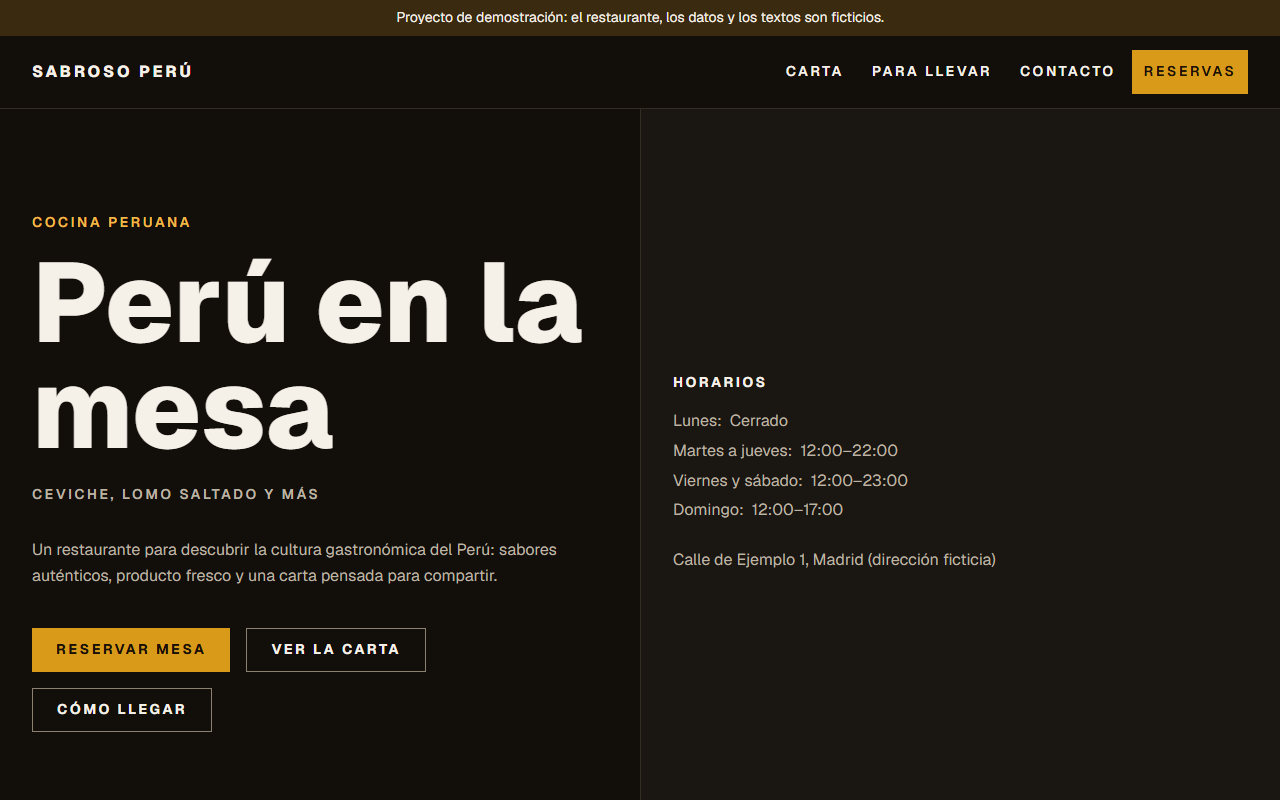
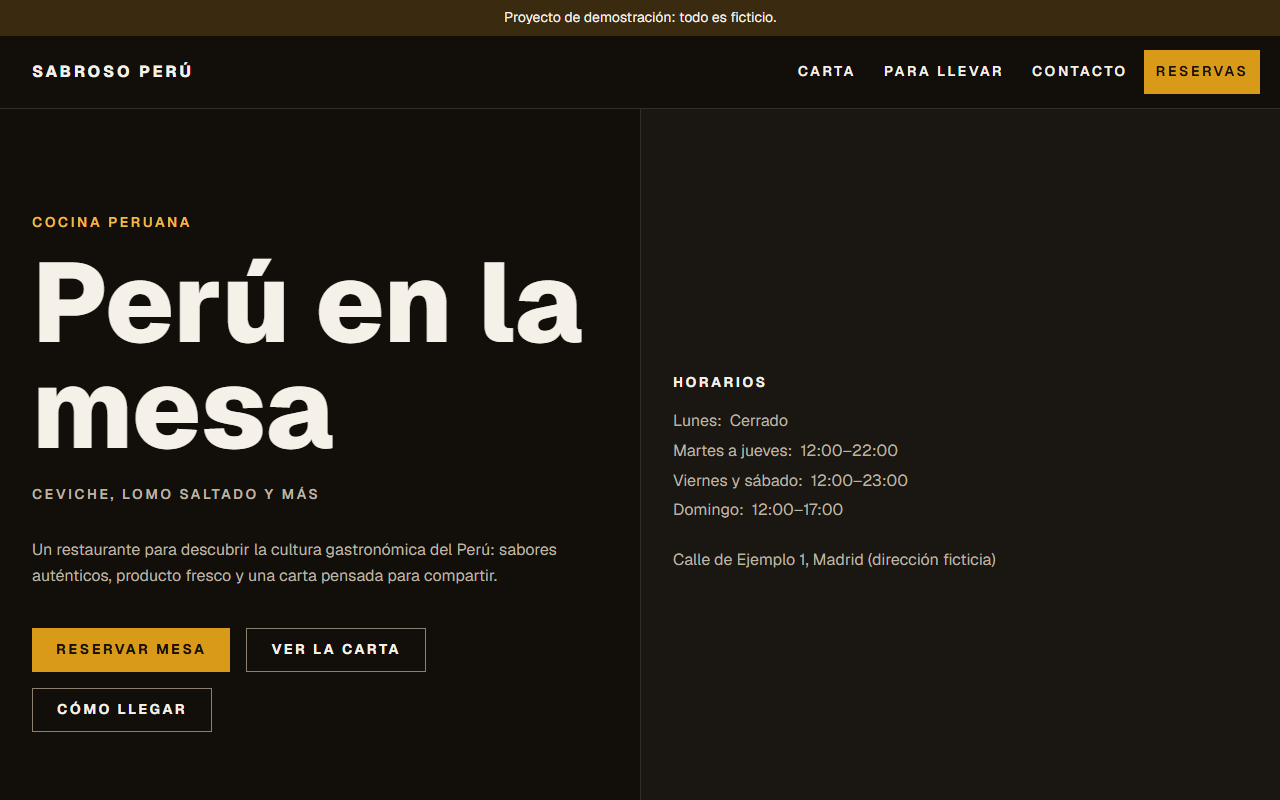
fix: cabecera responsive con menú móvil
En móvil la cabecera ocupaba ~157 px (unos 212 con la franja de demo): los
enlaces se partían en dos filas y no había menú. Ahora, por debajo de 768 px
queda en una sola fila (logo, Reservas y botón Menú) y el resto de enlaces
se abre en un panel que cierra con Esc, clic fuera o al elegir un enlace.

- Botones del hero a todo el ancho en móvil; franja de demo en una línea.
- Tests: 5 del menú, cabecera de una fila a 320 px y controles de 44x44.
- Capturas del README regeneradas, con la del menú móvil.

Los tests de T-011 solo comprobaban el scroll horizontal; se anota en su
review.

Changed region(s): [[0.625, 0.0625, 1.0, 0.125], [0.3125, 0.0, 0.6875, 0.0312]]

diff --git a/tests/inicio-navegacion.spec.ts b/tests/inicio-navegacion.spec.ts
@@ -1,6 +1,7 @@
 import { test, expect } from '@playwright/test';
 import { restaurante } from '../src/config/restaurante';
 import AxeBuilder from '@axe-core/playwright';
+import { abrirMenuSiHaceFalta } from './helpers';
 
 const TAGS = ['wcag2a', 'wcag2aa', 'wcag21a', 'wcag21aa'];
 const RUTAS = ['/', '/carta', '/para-llevar', '/reservas', '/contacto', '/aviso-legal', '/privacidad', '/accesibilidad'];
@@ -66,9 +67,11 @@ test.describe('navegacion', () => {
       await expect(cabecera).toBeVisible();
       await expect(cabecera.getByRole('link', { name: restaurante.nombre })).toHaveAttribute('href', '/');
 
-      const nav = cabecera.getByRole('navigation', { name: 'Principal' });
-      const hrefs = await nav.getByRole('link').evaluateAll((as) => as.map((a) => a.getAttribute('href') ?? ''));
-      expect(hrefs).toEqual(['/carta', '/para-llevar', '/contacto', '/reservas']);
+      await abrirMenuSiHaceFalta(page);
+      const hrefs = await cabecera
+        .getByRole('link')
+        .evaluateAll((as) => as.map((a) => a.getAttribute('href') ?? ''));
+      expect([...hrefs].sort()).toEqual(['/', '/carta', '/contacto', '/para-llevar', '/reservas']);
       for (const href of hrefs) {
         expect((await request.get(href)).status(), href).toBe(200);
       }
@@ -84,16 +87,19 @@ test.describe('navegacion', () => {
 
   test('los enlaces de la cabecera llevan a su página y marcan la actual', async ({ page }) => {
     await page.goto('/');
-    const nav = page.locator('header').getByRole('navigation', { name: 'Principal' });
-    await nav.getByRole('link', { name: 'Contacto' }).click();
+    const cabecera = page.locator('header');
+    await abrirMenuSiHaceFalta(page);
+    await cabecera.getByRole('link', { name: 'Contacto' }).click();
     await expect(page).toHaveURL(/\/contacto$/);
     await expect(page.getByRole('heading', { level: 1 })).toHaveText('Ven a vernos');
-    await expect(nav.getByRole('link', { name: 'Contacto' })).toHaveAttribute('aria-current', 'page');
-    await expect(nav.getByRole('link', { name: 'Reservas' })).not.toHaveAttribute('aria-current', 'page');
+    await abrirMenuSiHaceFalta(page);
+    await expect(cabecera.getByRole('link', { name: 'Contacto' })).toHaveAttribute('aria-current', 'page');
+    await expect(cabecera.getByRole('link', { name: 'Reservas' })).not.toHaveAttribute('aria-current', 'page');
 
-    await nav.getByRole('link', { name: 'Reservas' }).click();
+    await cabecera.getByRole('link', { name: 'Reservas' }).click();
     await expect(page).toHaveURL(/\/reservas$/);
-    await expect(nav.getByRole('link', { name: 'Reservas' })).toHaveAttribute('aria-current', 'page');
+    await abrirMenuSiHaceFalta(page);
+    await expect(cabecera.getByRole('link', { name: 'Reservas' })).toHaveAttribute('aria-current', 'page');
   });
 
   test('hay un enlace para saltar al contenido que se muestra al recibir el foco', async ({ page }) => {
@@ -106,19 +112,92 @@ test.describe('navegacion', () => {
     await expect(page.locator('#contenido')).toHaveCount(1);
   });
 
-  test('los controles de la cabecera miden al menos 44 px y no hay scroll horizontal a 320 px', async ({ page }) => {
+  test('a 320 px la cabecera cabe en una fila, sus controles miden al menos 44 px y no hay scroll horizontal', async ({
+    page,
+  }) => {
     await page.setViewportSize({ width: 320, height: 800 });
     await page.goto('/');
-    const enlaces = page.locator('header a');
-    const total = await enlaces.count();
+    const controles = page.locator('header a, header button');
+    const total = await controles.count();
     expect(total).toBeGreaterThan(0);
     for (let i = 0; i < total; i++) {
-      const caja = await enlaces.nth(i).boundingBox();
-      if (caja) expect(caja.height, `enlace ${i}`).toBeGreaterThanOrEqual(44);
+      if (!(await controles.nth(i).isVisible())) continue;
+      const caja = await controles.nth(i).boundingBox();
+      if (caja) {
+        expect(caja.height, `control ${i} (alto)`).toBeGreaterThanOrEqual(44);
+        expect(caja.width, `control ${i} (ancho)`).toBeGreaterThanOrEqual(44);
+      }
     }
+    const alto = await page.locator('header').evaluate((el) => el.getBoundingClientRect().height);
+    expect(alto, 'la cabecera cerrada ocupa una sola fila').toBeLessThanOrEqual(80);
     const desborda = await page.evaluate(
       () => document.documentElement.scrollWidth > document.documentElement.clientWidth,
     );
     expect(desborda).toBe(false);
+  });
+});
+
+test.describe('menú de la cabecera', () => {
+  test('en pantallas estrechas: Reservas siempre a la vista y el resto tras el botón Menú', async ({ page }) => {
+    await page.setViewportSize({ width: 375, height: 800 });
+    await page.goto('/');
+    const cabecera = page.locator('header');
+    const boton = cabecera.getByRole('button', { name: 'Menú' });
+    await expect(boton).toBeVisible();
+    await expect(boton).toHaveAttribute('aria-expanded', 'false');
+    await expect(boton).toHaveAttribute('aria-controls', 'menu-movil');
+    await expect(cabecera.getByRole('link', { name: 'Reservas' })).toBeVisible();
+    await expect(cabecera.getByRole('link', { name: 'Carta' })).toBeHidden();
+    await expect(page.locator('#menu-movil')).toBeHidden();
+
+    await boton.click();
+    await expect(boton).toHaveAttribute('aria-expanded', 'true');
+    await expect(page.locator('#menu-movil')).toBeVisible();
+    for (const texto of ['Carta', 'Para llevar', 'Contacto']) {
+      await expect(cabecera.getByRole('link', { name: texto })).toBeVisible();
+    }
+    await boton.click();
+    await expect(boton).toHaveAttribute('aria-expanded', 'false');
+    await expect(page.locator('#menu-movil')).toBeHidden();
+  });
+
+  test('Esc cierra el menú y devuelve el foco al botón', async ({ page }) => {
+    await page.setViewportSize({ width: 375, height: 800 });
+    await page.goto('/');
+    const boton = page.locator('header').getByRole('button', { name: 'Menú' });
+    await boton.click();
+    await expect(page.locator('#menu-movil')).toBeVisible();
+    await page.keyboard.press('Escape');
+    await expect(page.locator('#menu-movil')).toBeHidden();
+    await expect(boton).toBeFocused();
+  });
+
+  test('un clic fuera cierra el menú', async ({ page }) => {
+    await page.setViewportSize({ width: 375, height: 800 });
+    await page.goto('/');
+    await page.locator('header').getByRole('button', { name: 'Menú' }).click();
+    await expect(page.locator('#menu-movil')).toBeVisible();
+    await page.locator('main').click({ position: { x: 5, y: 5 } });
+    await expect(page.locator('#menu-movil')).toBeHidden();
+  });
+
+  test('al elegir un enlace navega y el menú se cierra', async ({ page }) => {
+    await page.setViewportSize({ width: 375, height: 800 });
+    await page.goto('/');
+    await page.locator('header').getByRole('button', { name: 'Menú' }).click();
+    await page.locator('header').getByRole('link', { name: 'Carta' }).click();
+    await expect(page).toHaveURL(/\/carta$/);
+    await expect(page.locator('#menu-movil')).toBeHidden();
+  });
+
+  test('en pantallas anchas no hay botón Menú y los enlaces van en línea', async ({ page }) => {
+    await page.setViewportSize({ width: 1024, height: 800 });
+    await page.goto('/');
+    const cabecera = page.locator('header');
+    await expect(cabecera.getByRole('button', { name: 'Menú' })).toBeHidden();
+    const nav = cabecera.getByRole('navigation', { name: 'Principal' });
+    await expect(nav.getByRole('link')).toHaveCount(4);
+    const alto = await cabecera.evaluate((el) => el.getBoundingClientRect().height);
+    expect(alto).toBeLessThanOrEqual(80);
   });
 });

diff --git a/src/components/Navegacion.tsx b/src/components/Navegacion.tsx
@@ -1,34 +1,112 @@
 'use client';
 
+import { Menu, X } from 'lucide-react';
 import Link from 'next/link';
 import { usePathname } from 'next/navigation';
+import { useEffect, useRef, useState } from 'react';
 import type { EnlaceNav } from '@/lib/navegacion';
 
 const claseBase =
-  'inline-flex min-h-11 items-center px-3 text-label font-semibold uppercase tracking-caps';
+  'inline-flex min-h-11 items-center px-2 text-label font-semibold uppercase tracking-wider sm:px-3 sm:tracking-caps';
+const claseMenu =
+  'inline-flex min-h-11 w-full items-center text-label font-semibold uppercase tracking-caps text-fg hover:text-accent-text';
+const claseCta = `${claseBase} bg-accent text-accent-fg hover:bg-accent-hover`;
 
-/** Enlaces de la cabecera; la lista se define en `src/lib/navegacion.ts`. */
+/**
+ * Navegación de la cabecera. En pantallas anchas (md, 768 px) los enlaces van en línea; en las
+ * estrechas, "Reservas" queda siempre a la vista y el resto se abre con el botón "Menú".
+ * La lista se define en `src/lib/navegacion.ts`.
+ */
 export function Navegacion({ enlaces }: { enlaces: readonly EnlaceNav[] }) {
   const ruta = usePathname();
+  const [abierto, setAbierto] = useState(false);
+  const boton = useRef<HTMLButtonElement>(null);
+  const panel = useRef<HTMLElement>(null);
+
+  const reserva = enlaces.find((e) => e.href === '/reservas');
+  const resto = enlaces.filter((e) => e.href !== '/reservas');
+
+  // Esc cierra el menú y devuelve el foco al botón; un clic fuera también lo cierra.
+  useEffect(() => {
+    if (!abierto) return;
+    const alTeclear = (evento: KeyboardEvent) => {
+      if (evento.key === 'Escape') {
+        setAbierto(false);
+        boton.current?.focus();
+      }
+    };
+    const alPulsar = (evento: MouseEvent) => {
+      const destino = evento.target as Node;
+      if (!panel.current?.contains(destino) && !boton.current?.contains(destino)) setAbierto(false);
+    };
+    document.addEventListener('keydown', alTeclear);
+    document.addEventListener('mousedown', alPulsar);
+    return () => {
+      document.removeEventListener('keydown', alTeclear);
+      document.removeEventListener('mousedown', alPulsar);
+    };
+  }, [abierto]);
+
+  const enlace = (e: EnlaceNav, clase: string, alPulsar?: () => void) => {
+    const actual = ruta === e.href;
+    return (
+      <Link
+        href={e.href}
+        aria-current={actual ? 'page' : undefined}
+        onClick={alPulsar}
+        className={`${clase} ${actual ? 'underline' : ''}`}
+      >
+        {e.texto}
+      </Link>
+    );
+  };
 
   return (
-    <nav aria-label="Principal">
-      <ul className="flex flex-wrap items-center gap-x-1">
-        {enlaces.map((enlace) => {
-          const actual = ruta === enlace.href;
-          const esReserva = enlace.href === '/reservas';
-          const clase = esReserva
-            ? `${claseBase} bg-accent text-accent-fg hover:bg-accent-hover`
-            : `${claseBase} text-fg hover:text-accent-text ${actual ? 'underline' : ''}`;
-          return (
-            <li key={enlace.href}>
-              <Link href={enlace.href} aria-current={actual ? 'page' : undefined} className={clase}>
-                {enlace.texto}
-              </Link>
+    <>
+      {/* Pantallas anchas: todos los enlaces en línea. */}
+      <nav aria-label="Principal" className="hidden md:block">
+        <ul className="-mr-3 flex items-center gap-x-1">
+          {enlaces.map((e) => (
+            <li key={e.href}>
+              {e.href === '/reservas'
+                ? enlace(e, claseCta)
+                : enlace(e, `${claseBase} text-fg hover:text-accent-text`)}
             </li>
-          );
-        })}
-      </ul>
-    </nav>
+          ))}
+        </ul>
+      </nav>
+
+      {/* Pantallas estrechas: CTA a la vista y botón de menú. */}
+      <div className="ml-auto flex items-center gap-2 md:hidden">
+        {reserva && enlace(reserva, claseCta)}
+        <button
+          ref={boton}
+          type="button"
+          aria-expanded={abierto}
+          aria-controls="menu-movil"
+          onClick={() => setAbierto((v) => !v)}
+          className={`${claseBase} min-w-11 justify-center gap-2 border border-border-strong text-fg hover:bg-surface-muted`}
+        >
+          {abierto ? <X aria-hidden="true" className="size-4" /> : <Menu aria-hidden="true" className="size-4" />}
+          <span className="sr-only sm:not-sr-only">Menú</span>
+        </button>
+      </div>
+
+      <nav
+        ref={panel}
+        id="menu-movil"
+        aria-label="Principal"
+        hidden={!abierto}
+        className="basis-full border-t border-border md:hidden"
+      >
+        <ul className="grid">
+          {resto.map((e) => (
+            <li key={e.href} className="border-b border-border last:border-b-0">
+              {enlace(e, claseMenu, () => setAbierto(false))}
+            </li>
+          ))}
+        </ul>
+      </nav>
+    </>
   );
 }

diff --git a/tests/carta.spec.ts b/tests/carta.spec.ts
@@ -1,5 +1,6 @@
 import { test, expect } from '@playwright/test';
 import AxeBuilder from '@axe-core/playwright';
+import { abrirMenuSiHaceFalta } from './helpers';
 
 const TAGS = ['wcag2a', 'wcag2aa', 'wcag21a', 'wcag21aa'];
 const CATEGORIAS = ['Ceviches', 'Tiraditos', 'Causas', 'Tradicionales', 'Postres'];
@@ -42,8 +43,10 @@ test.describe('carta', () => {
 
   test('la carta se puede alcanzar desde la cabecera y el pie', async ({ page }) => {
     await page.goto('/');
+    await abrirMenuSiHaceFalta(page);
     await page.locator('header').getByRole('link', { name: 'Carta' }).click();
     await expect(page).toHaveURL(/\/carta$/);
+    await abrirMenuSiHaceFalta(page);
     await expect(page.locator('header').getByRole('link', { name: 'Carta' })).toHaveAttribute('aria-current', 'page');
     await expect(page.locator('footer').getByRole('link', { name: 'Carta' })).toHaveAttribute('href', '/carta');
   });

diff --git a/src/components/Cabecera.tsx b/src/components/Cabecera.tsx
@@ -6,10 +6,10 @@ import { enlacesCabecera } from '@/lib/navegacion';
 export function Cabecera() {
   return (
     <header className="min-h-nav border-b border-border bg-bg px-gutter">
-      <div className="flex min-h-nav flex-wrap items-center justify-between gap-x-6 gap-y-2 py-2">
+      <div className="flex min-h-nav flex-wrap items-center justify-between gap-x-3 py-2 sm:gap-x-6">
         <Link
           href="/"
-          className="inline-flex min-h-11 items-center text-body font-extrabold uppercase tracking-caps text-fg"
+          className="inline-flex min-h-11 items-center text-label font-extrabold uppercase tracking-wide text-fg sm:text-body sm:tracking-caps"
         >
           {restaurante.nombre}
         </Link>

diff --git a/tests/para-llevar.spec.ts b/tests/para-llevar.spec.ts
@@ -1,5 +1,6 @@
 import { test, expect } from '@playwright/test';
 import AxeBuilder from '@axe-core/playwright';
+import { abrirMenuSiHaceFalta } from './helpers';
 
 const TAGS = ['wcag2a', 'wcag2aa', 'wcag21a', 'wcag21aa'];
 
@@ -32,8 +33,10 @@ test.describe('para-llevar', () => {
 
   test('se llega desde la cabecera y el pie', async ({ page }) => {
     await page.goto('/');
+    await abrirMenuSiHaceFalta(page);
     await page.locator('header').getByRole('link', { name: 'Para llevar' }).click();
     await expect(page).toHaveURL(/\/para-llevar$/);
+    await abrirMenuSiHaceFalta(page);
     await expect(page.locator('header').getByRole('link', { name: 'Para llevar' })).toHaveAttribute(
       'aria-current',
       'page',

diff --git a/tests/helpers.ts b/tests/helpers.ts
@@ -1,0 +1,12 @@
+import type { Page } from '@playwright/test';
+
+/**
+ * En pantallas estrechas los enlaces de la cabecera están dentro del botón "Menú".
+ * Abre el menú si hace falta; en pantallas anchas no hace nada.
+ */
+export async function abrirMenuSiHaceFalta(page: Page): Promise<void> {
+  const boton = page.locator('header').getByRole('button', { name: 'Menú' });
+  if ((await boton.isVisible()) && (await boton.getAttribute('aria-expanded')) === 'false') {
+    await boton.click();
+  }
+}

diff --git a/src/app/page.tsx b/src/app/page.tsx
@@ -21,7 +21,7 @@ const cultura = [
 ] as const;
 
 const claseBoton =
-  'inline-flex min-h-11 items-center justify-center px-6 text-label font-bold uppercase tracking-caps';
+  'inline-flex min-h-11 w-full items-center justify-center px-6 sm:w-auto text-label font-bold uppercase tracking-caps';
 
 export default function Inicio() {
   const horarios = resumenHorarios(restaurante.horarios);

diff --git a/src/components/AvisoDemo.tsx b/src/components/AvisoDemo.tsx
@@ -5,7 +5,7 @@ export function AvisoDemo() {
       data-testid="aviso-demo"
       className="bg-accent-soft px-gutter py-2 text-center text-label text-fg"
     >
-      Proyecto de demostración: el restaurante, los datos y los textos son ficticios.
+      Proyecto de demostración: todo es ficticio.
     </p>
   );
 }

diff --git a/README.md b/README.md
@@ -8,9 +8,9 @@ Sitio web de un restaurante peruano: presenta la cultura gastronómica, muestra 
 
 ![Portada en escritorio](docs/capturas/01-inicio-escritorio.png)
 
-| Portada (móvil) | Reserva (móvil) |
-|---|---|
-| ![Portada en móvil](docs/capturas/02-inicio-movil.png) | ![Formulario de reserva en móvil](docs/capturas/04-reserva-movil.png) |
+| Portada (móvil) | Menú (móvil) | Reserva (móvil) |
+|---|---|---|
+| ![Portada en móvil](docs/capturas/02-inicio-movil.png) | ![Menú desplegable en móvil](docs/capturas/06-menu-movil.png) | ![Formulario de reserva en móvil](docs/capturas/04-reserva-movil.png) |
 
 | Carta | Confirmación de reserva |
 |---|---|
@@ -23,6 +23,7 @@ Sitio web de un restaurante peruano: presenta la cultura gastronómica, muestra 
 - **Para llevar.** Explica cómo pedir por teléfono o WhatsApp, sin carrito ni pago.
 - **Información práctica.** Horarios agrupados por días, dirección, contacto, galería, reseñas (solo citas reales con fuente y fecha) y páginas de aviso legal, privacidad y accesibilidad.
 - **Accesible y rápido.** Cumple WCAG 2.1 AA como suelo, respeta `prefers-reduced-motion` y sale con 99–100 en Lighthouse.
+- **Pensado para el móvil.** Desde 320 px la cabecera cabe en una fila: el botón *Reservas* siempre a la vista y el resto de enlaces en un menú desplegable (cierra con Esc o con un clic fuera). En pantallas anchas los enlaces van en línea.
 
 ## Stack
 

diff --git a/CHANGELOG.md b/CHANGELOG.md
@@ -21,6 +21,7 @@ y versionado [SemVer](https://semver.org/lang/es/).
 - SPEC-001, PLAN-001, ADR-001 e informes de competencia en research/.
 
 ### Cambiado
+- Cabecera responsive: en pantallas estrechas (< 768 px) pasa a una sola fila con el botón Reservas a la vista y un menú desplegable (Esc y clic fuera lo cierran); los botones del hero ocupan todo el ancho en móvil; la franja de demostración se acorta a una línea. Corrige un defecto que los tests de T-011 no detectaban: solo comprobaban que no hubiera scroll horizontal, no que la cabecera ocupara ~210 px de un móvil.
 - Desplegado en Vercel (https://sabroso-peru.vercel.app) desde la rama main; cada push a main redespliega.
 - La CI usa `pnpm run audit:ci` (scripts/check-audit.mjs): aplica la excepción de ADR-001 y falla si caduca el 2026-11-15 o si aparece otra vulnerabilidad alta o crítica. Se añade .node-version (24), que la CI necesitaba.
 - El proyecto usa los tokens de v3-editorial-dark (antes importaba v1-soft-commerce de la plantilla). La URL de WhatsApp y el teléfono del restaurante viven en src/config.

diff --git a/sdd/reviews/T-011.md b/sdd/reviews/T-011.md
@@ -113,6 +113,10 @@ Sin cambios. Esta tarea no toca datos.
 9. Los e2e se ejecutaron con el servidor de producción; con `next dev` fallan por una caída del servidor (ver review de T-005).
 10. Los CA de la Enmienda 1 con verificación e2e sobre contenido vacío (carta, galería, reseñas) están cubiertos con datos de prueba en tests unitarios; se reforzarán cuando haya contenido real.
 
+## Corrección posterior (2026-10-15)
+
+Tras el cierre, una revisión visual a 375 px mostró que la cabecera ocupaba unos 157 px (unos 212 con la franja de demostración) porque los enlaces se partían en dos filas, sin menú móvil. Los tests de esta tarea comprobaban que no hubiera scroll horizontal, pero no la usabilidad de la cabecera, así que no lo detectaron. Se corrigió con una cabecera compacta y un menú desplegable, y se añadieron 5 tests del menú y comprobaciones de la cabecera a 320 px (una sola fila, controles de al menos 44×44 px). Resultado: 164 e2e en verde (82 por proyecto).
+
 ## Documentación actualizada
 
 - [ ] Spec actualizada (si tocó): no.
